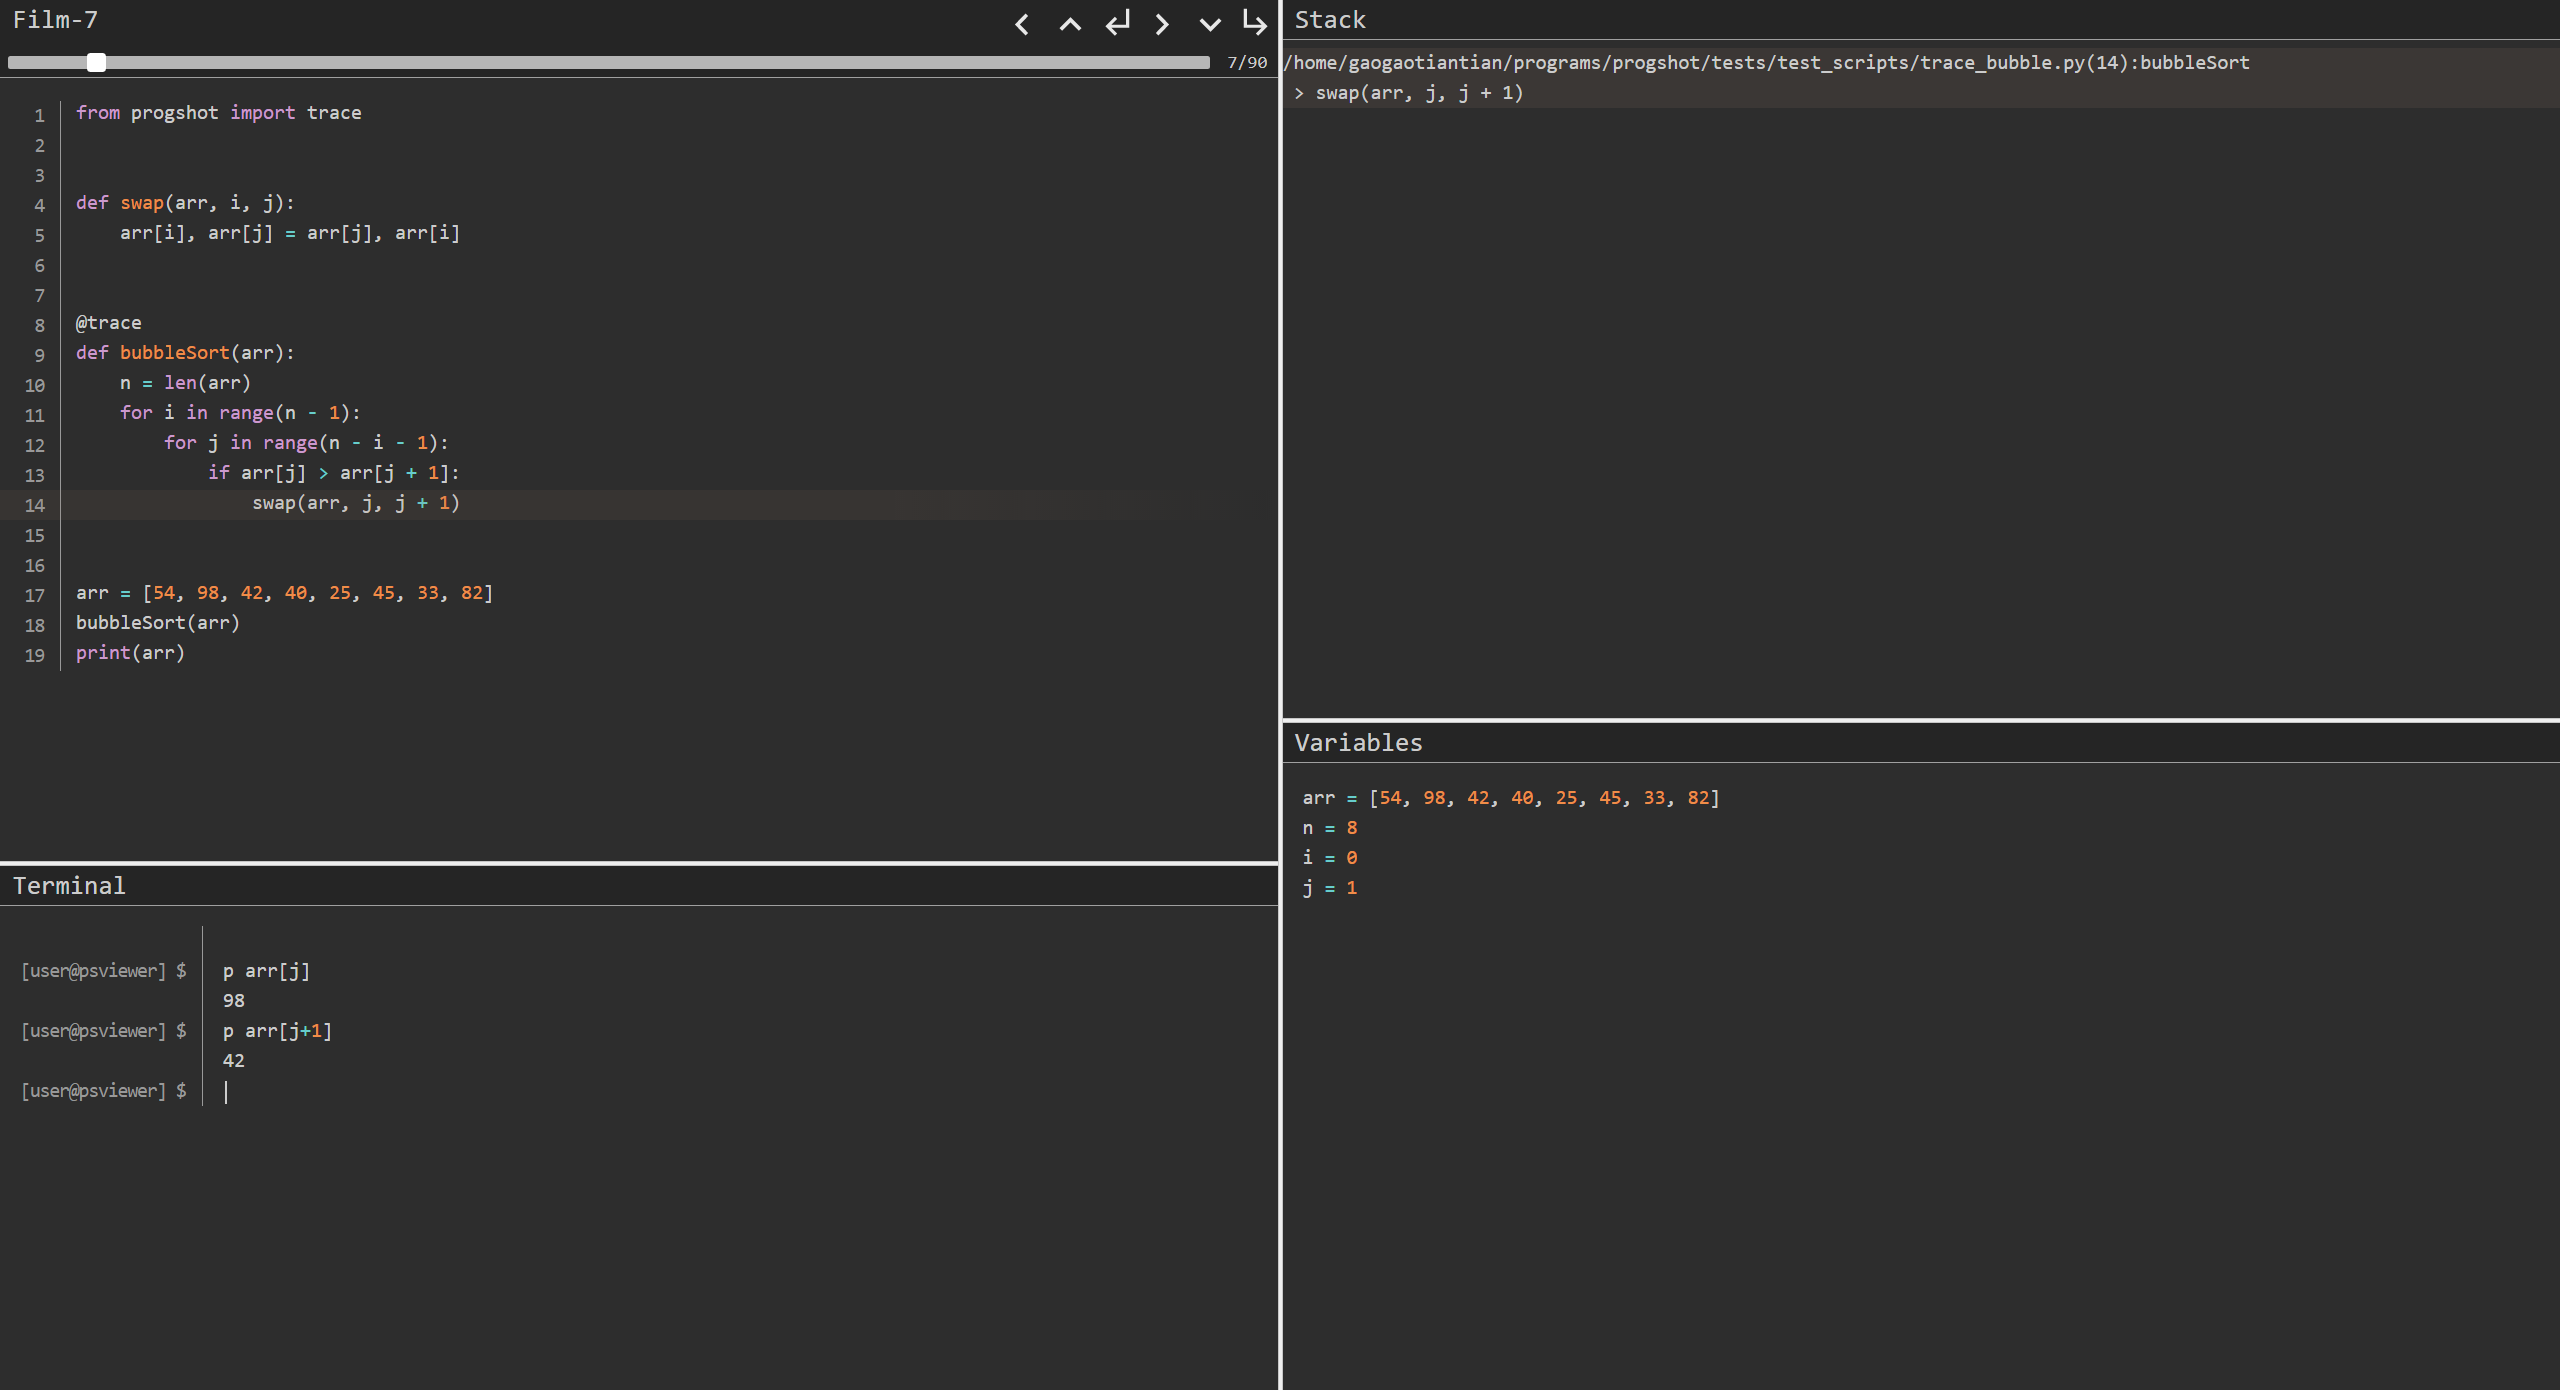
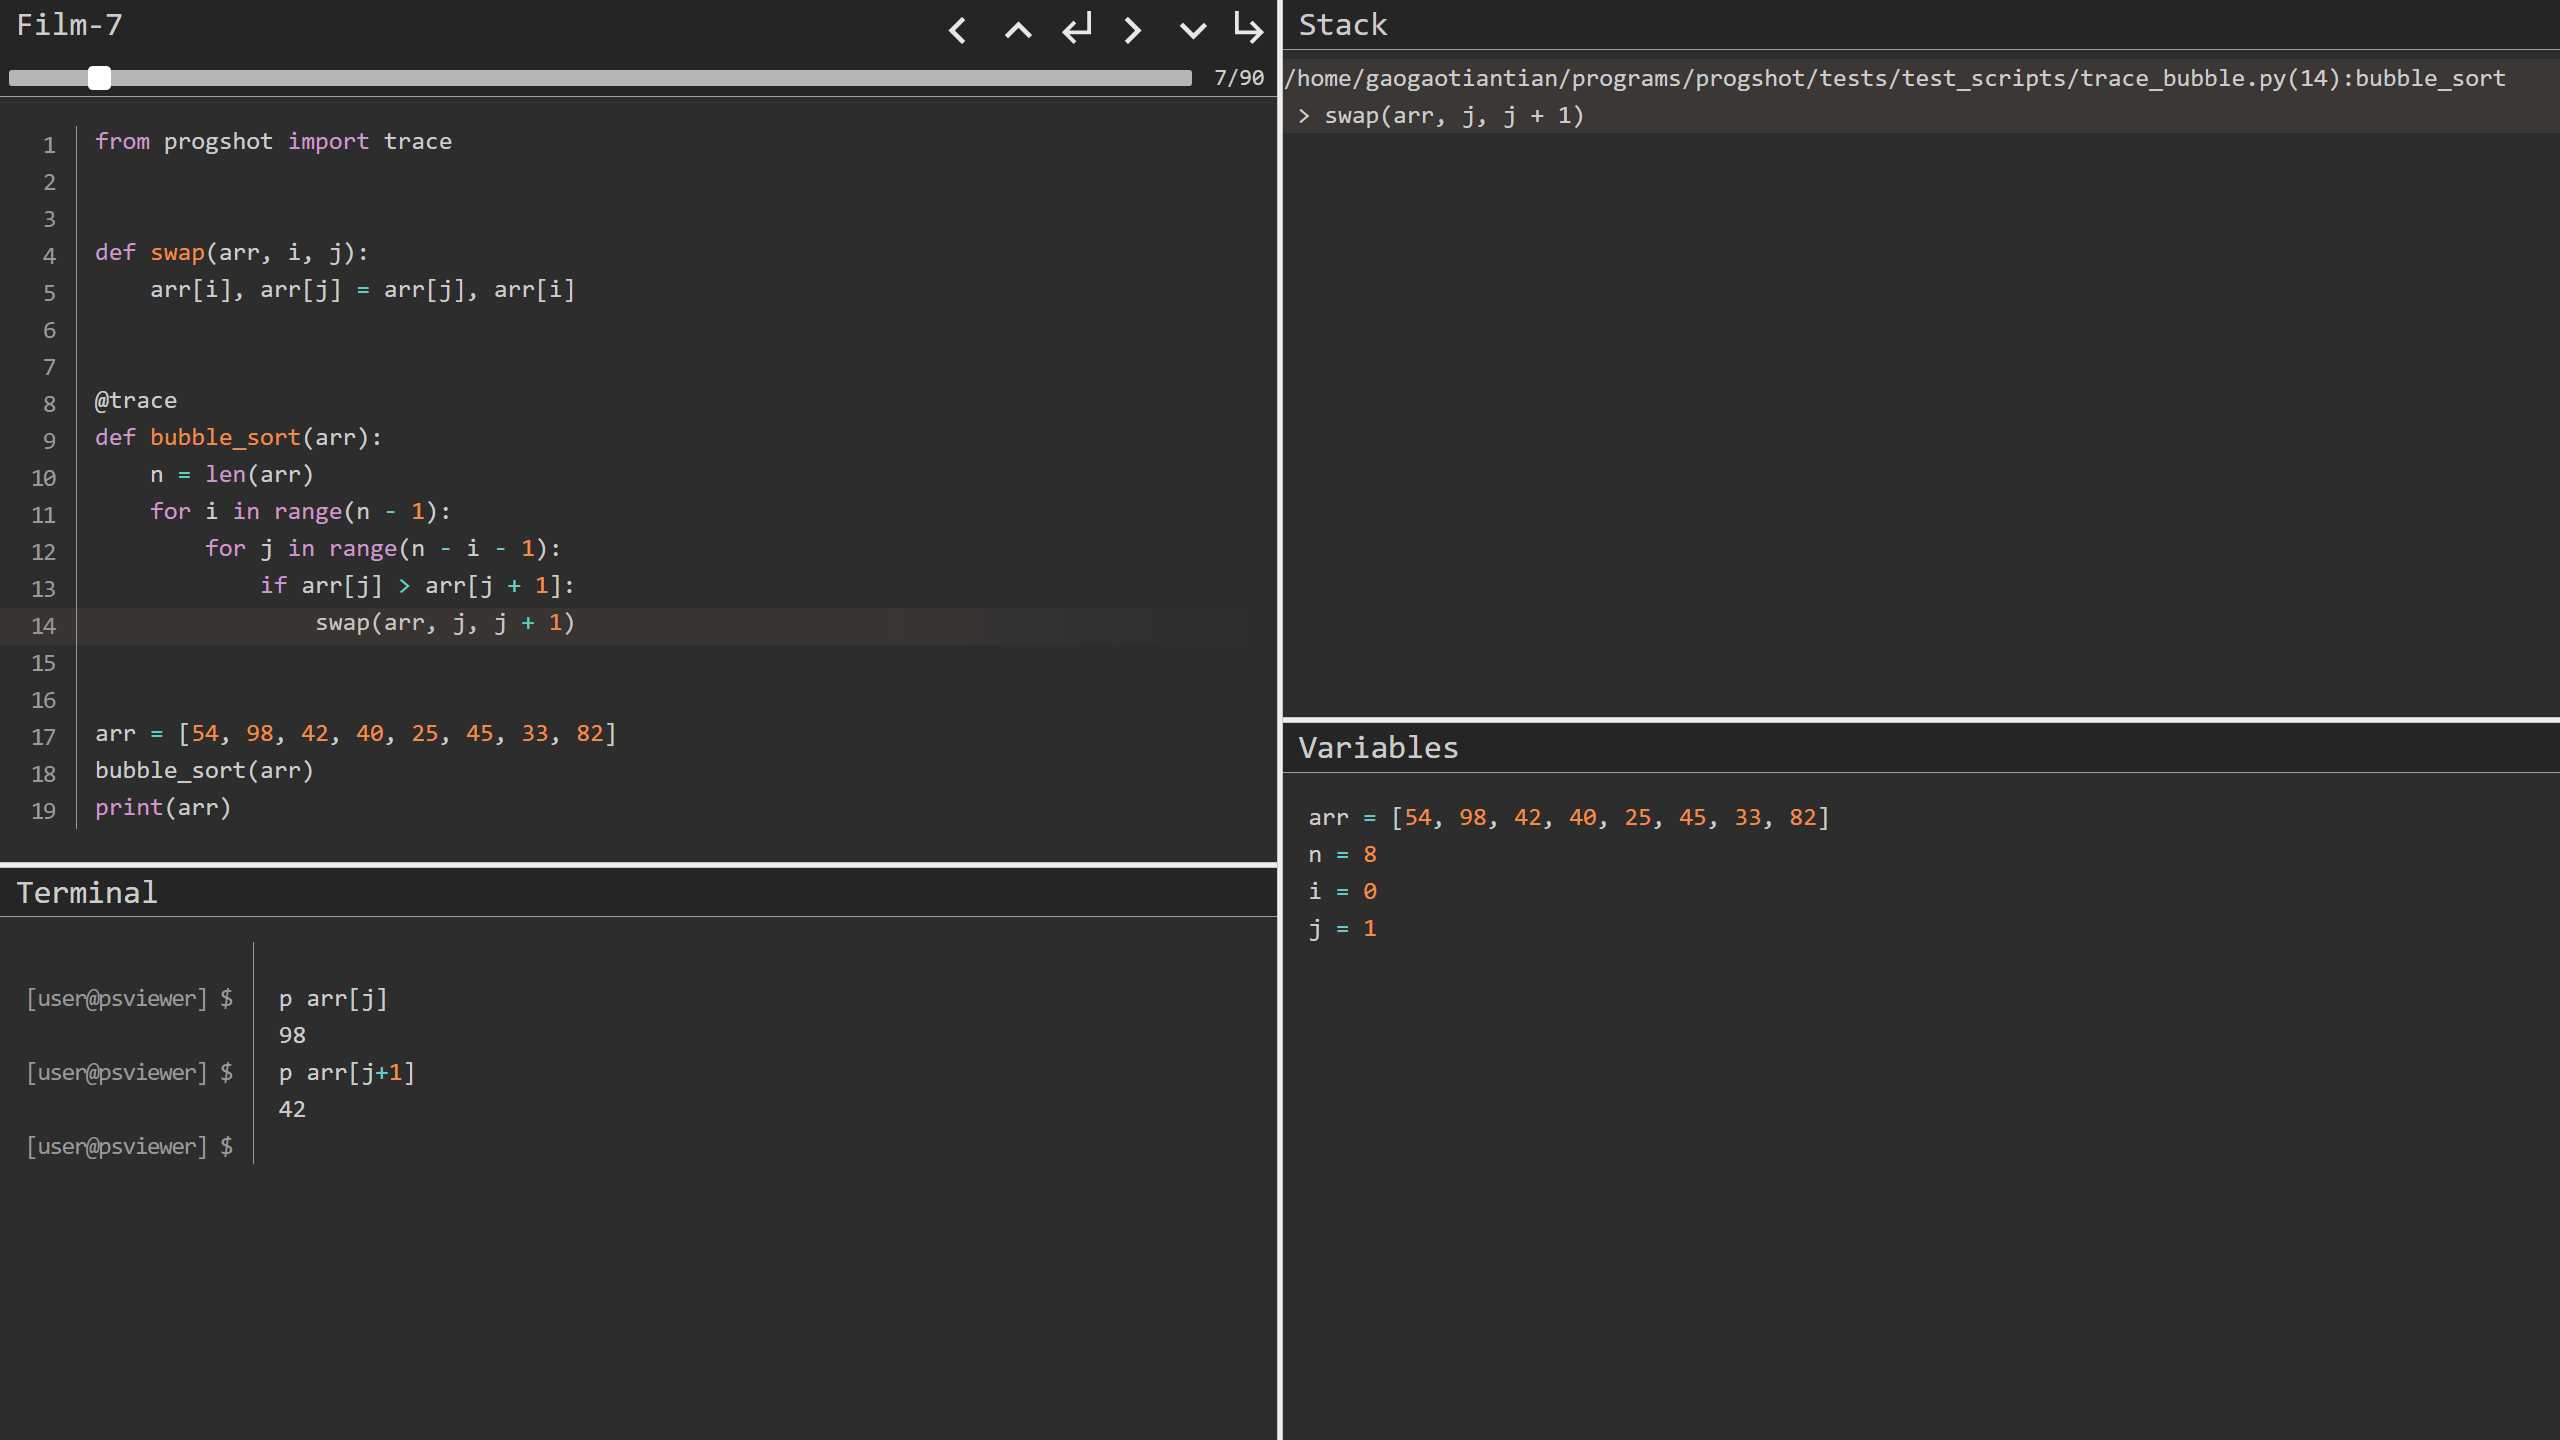
Fix example (#9)

diff --git a/tests/test_scripts/trace_bubble.py b/tests/test_scripts/trace_bubble.py
@@ -6,7 +6,7 @@ def swap(arr, i, j):
 
 
 @trace
-def bubbleSort(arr):
+def bubble_sort(arr):
     n = len(arr)
     for i in range(n - 1):
         for j in range(n - i - 1):
@@ -15,5 +15,5 @@ def bubbleSort(arr):
 
 
 arr = [54, 98, 42, 40, 25, 45, 33, 82]
-bubbleSort(arr)
+bubble_sort(arr)
 print(arr)

diff --git a/README.md b/README.md
@@ -24,7 +24,7 @@ def swap(arr, i, j):
     arr[i], arr[j] = arr[j], arr[i]
 
 @trace
-def bubbleSort(arr):
+def bubble_sort(arr):
     n = len(arr)
     for i in range(n - 1):
         for j in range(n - i - 1):
@@ -48,7 +48,7 @@ def swap(arr, i, j):
     arr[i], arr[j] = arr[j], arr[i]
 
 @trace(depth=2)
-def bubbleSort(arr):
+def bubble_sort(arr):
     n = len(arr)
     for i in range(n - 1):
         for j in range(n - i - 1):
@@ -68,7 +68,7 @@ from progshot import dump
 
 for i in range(3):
     arr = [random.randint(0, 100) for _ in range(10)]
-    bubbleSort(arr)
+    bubble_sort(arr)
     dump(filename=f"sort_{i}.pshot")
 ```
 
